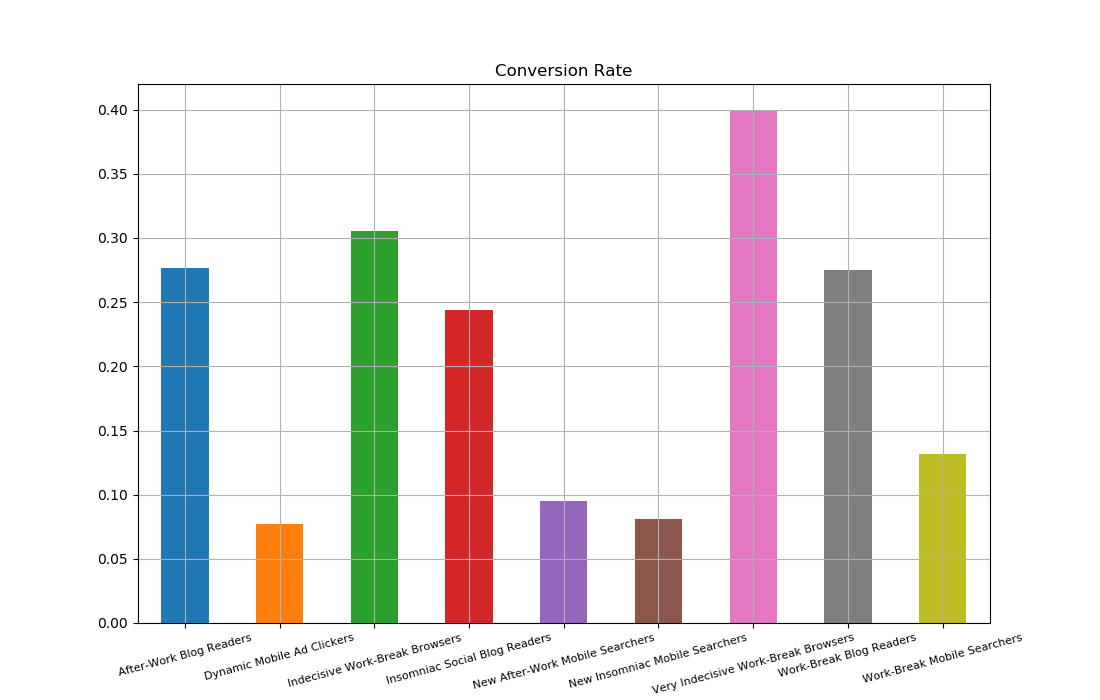
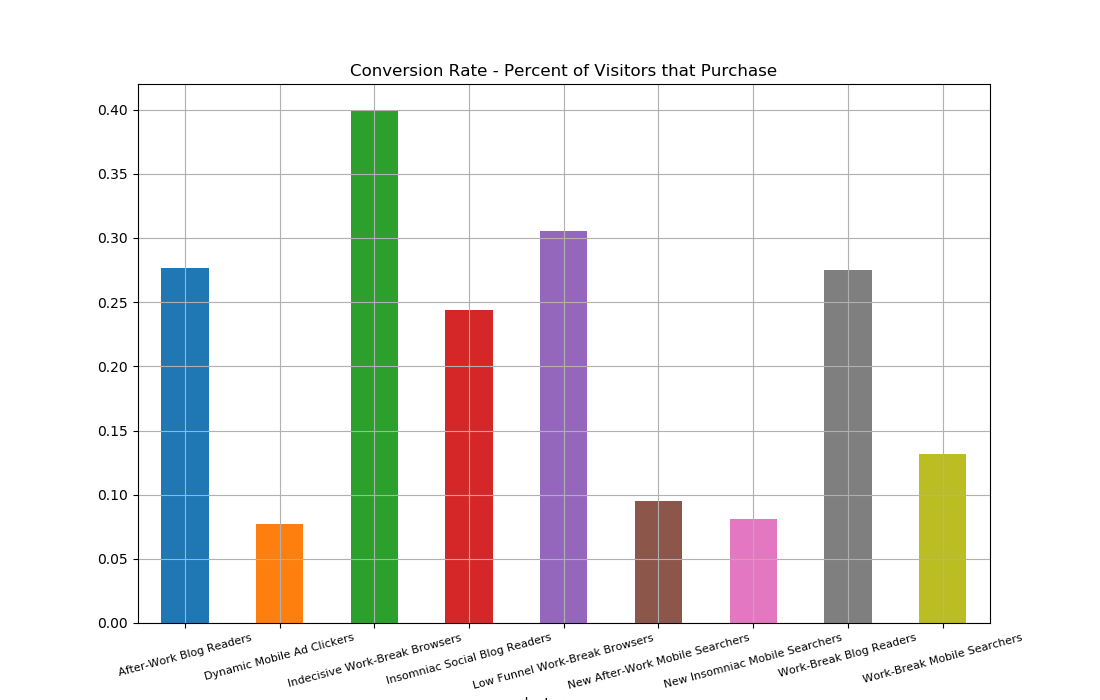
Friday AM

diff --git a/src/customer_segmentation.py b/src/customer_segmentation.py
@@ -143,9 +143,9 @@ def plot_PCA(num_clusters, num_components):
     plt.show()
 
 
-plot_elbow_curve(max_range=5)
-plot_silhouette_score(max_range=5)
-plot_PCA(num_clusters=9,num_components=3)
+# plot_elbow_curve(max_range=5)
+# plot_silhouette_score(max_range=5)
+# plot_PCA(num_clusters=9,num_components=3)
 # conclude that ideal k = 9
 
 # add cluster labels to original feature matrix
@@ -162,50 +162,54 @@ cluster_feature_means = X.groupby(['cluster']).mean()
 # % mobile vs. Desktop
 # % tables print
 
+# device_counts = dfQuery.loc['mean()
+# dfQuery.loc[('referral', 'affiliate')].sum()
 '''EDA by Cluster'''
 # create 'Y' table to see cluster performance on site
 
 # remove from y: num_visits	num_transactions revenue
 # change new columns to grab from other dataframe
 
-# Y = dfQuery[['page_views', 'time_on_site', 'num_visits', 'num_transactions', 'revenue','action_type']]
-# Y['cluster'] = labels
-#
-# # assign cluster names based on interpretations
-# cluster_names = ['Dynamic Mobile Ad Clickers','New Insomniac Mobile Searchers', 'Work-Break Blog Readers', 'New After-Work Mobile Searchers', 'Insomniac Social Blog Readers', 'Very Indecisive Work-Break Browsers', 'Indecisive Work-Break Browsers', 'Work-Break Mobile Searchers', 'After-Work Blog Readers']
-#
-# Y['cluster_name'] = [cluster_names[i] for i in labels]
-#
-# cluster_sizes = Y.cluster_name.value_counts()
-#
-# Y = Y.groupby('cluster_name').agg({'page_views':'mean','time_on_site':'mean', 'num_visits': 'sum', 'num_transactions':'sum','revenue': 'sum', 'action_type': 'mean'})
-#
-# Y['size'] = cluster_sizes.iloc[:]
-#
-# # create new performace metric columns
-# Y['conversion_rate'] = Y['num_transactions'] / Y['size']
-# Y['conversion_value'] = Y['revenue'] / Y['num_transactions']
-#
-#
-# # plot conversion rate by cluster
-# cr = Y.xs('conversion_rate', axis=1)
-# plt.figure(figsize =(11,7))
-# ax1 = cr.plot(kind='bar', title='Conversion Rate')
-# plt.xticks(rotation = 15, fontsize = 8)
-# plt.grid(True)
-# plt.savefig('../images/conversion_rate.png')
-# plt.show()
-#
-#
-# # conversion value by cluster
-# cv = Y.xs('conversion_value', axis=1)
-# plt.figure(figsize =(11,7))
-# cv.plot(kind='bar', title='Conversion Value')
-# plt.xticks(rotation = 15, fontsize = 8)
-# plt.grid(True)
-# plt.savefig('../images/conversion_value.png')
-# plt.show()
+Y = dfQuery[['page_views', 'time_on_site', 'num_visits', 'num_transactions', 'revenue','action_type']]
+Y['cluster'] = labels
 
-# # print dataframe tables
+# assign cluster names based on interpretations
+cluster_names = ['Dynamic Mobile Ad Clickers','New Insomniac Mobile Searchers', 'Work-Break Blog Readers', 'New After-Work Mobile Searchers', 'Insomniac Social Blog Readers', 'Indecisive Work-Break Browsers', 'Low Funnel Work-Break Browsers', 'Work-Break Mobile Searchers', 'After-Work Blog Readers']
+
+Y['cluster_name'] = [cluster_names[i] for i in labels]
+
+cluster_sizes = Y.cluster_name.value_counts()
+
+Y = Y.groupby('cluster_name').agg({'page_views':'mean','time_on_site':'mean', 'num_visits': 'sum', 'num_transactions':'sum','revenue': 'sum', 'action_type': 'mean'})
+
+Y['size'] = cluster_sizes.iloc[:]
+
+# create new performace metric columns
+Y['conversion_rate'] = Y['num_transactions'] / Y['size']
+Y['conversion_value'] = Y['revenue'] / Y['num_transactions']
+
+readmeY = Y[['size','page_views','time_on_site','action_type','revenue', 'conversion_rate', 'conversion_value']].copy()
+
+# plot conversion rate by cluster
+cr = Y.xs('conversion_rate', axis=1)
+plt.figure(figsize =(11,7))
+ax1 = cr.plot(kind='bar', title='Conversion Rate - Percent of Visitors that Purchase')
+plt.xticks(rotation = 15, fontsize = 8)
+plt.grid(True)
+plt.savefig('../images/conversion_rate.png')
+plt.show()
+
+
+# conversion value by cluster
+cv = Y.xs('conversion_value', axis=1)
+plt.figure(figsize =(11,7))
+cv.plot(kind='bar', title='Conversion Value - Average Price of Items Purchased')
+plt.xticks(rotation = 15, fontsize = 8)
+plt.ylabel('Dollars')
+plt.grid(True)
+plt.savefig('../images/conversion_value.png')
+plt.show()
+
+# print dataframe tables
 # print(tabulate(means.round(2), headers='keys', tablefmt='pipe'))
-# print(tabulate(Y.round(2), headers='keys', tablefmt='pipe'))
+print(tabulate(readmeY.round(2), headers='keys', tablefmt='pipe'))

diff --git a/README.md b/README.md
@@ -30,11 +30,11 @@ unique traffic source for referral/affiliate
 Sklearn's Kprototypes is a combination of KMeans and KModes. It's used for clustering a mix of numeric and categorical features. When fitting, KPrototypes takes the categorical indicies as an argument and clusters accordingly.
 
 ```python
-categoricals_indicies = [1,2,3,4,5,6,7,8,9]
+categorical_indicies = [1,2,3,4,5,6,7,8,9]
 
 def get_cluster_labels(k):
   kproto = kprototypes.KPrototypes(n_clusters=k, init='Huang', max_iter=100)
-  labels = kproto.fit_predict(X_scaled, categorical=categoricals_indicies)
+  labels = kproto.fit_predict(X_scaled, categorical=categorical_indicies)
   return labels
 ```
 
@@ -50,10 +50,10 @@ def get_cluster_labels(k):
 <img src= 'images/thurs_silouette_score.png' width="400">
 
 
-### Cluster Features
+### Clusters
 To interpret cluster features, I added a label column to the original features dataframe, grouped by cluster, and aggregated column-wise by the mean.
 
-|   cluster |   num visits |   social referral |   device |   organic |   paid |   referral/affiliate |   night |   morning |   afternoon |   evening |
+|   Cluster|   Number of  Visits |   Social Referral |   Device |   Organic |   Paid |   Referral & Affiliate |   Night |   Morning |   Afternoon |   Evening |
 |----------:|-------------:|------------------:|---------:|----------:|-------:|---------------------:|--------:|----------:|------------:|----------:|
 |         0 |         1.99 |              0.02 |     0.73 |      0.1  |   0.85 |                 0.05 |    0.23 |      0.24 |        0.2  |      0.22 |
 |         1 |         1.48 |              0    |     0.37 |      0.95 |   0.05 |                 0    |    0.98 |      0.01 |        0    |      0    |
@@ -76,8 +76,8 @@ Below is a qualitative interpretation of cluster features based on the mean valu
 |Work-Break Blog Readers | 1268 | Second Visit | No | Desktop | Referral/Affiliate | Afternoon |
 |New After-Work Mobile Searchers | 1461 | New Visitor |  No | Some Mobile | Organic | Evening |
 |Insomniac Social Blog Readers | 780 | 2-3 Visits | Some Social Referral  | Desktop | Referral/Affiliate | Night
-|Very Indecisive Work-Break Browsers| 5 | Very Frequent Visitor | No | Desktop | Organic & Referral/Affiliate | Mostly Afternoon, Not AM |
-|Indecisive Work-Break Browsers| 72 | Frequent Visitor | No | Desktop | Referral/Affiliate | Mostly Afternoon, Not AM |
+|Indecisive Work-Break Browsers| 5 | Very Frequent Visitor | No | Desktop | Organic & Referral/Affiliate | Mostly Afternoon, Not AM |
+|Low Funnel Work-Break Browsers| 72 | Frequent Visitor | No | Desktop | Referral/Affiliate | Mostly Afternoon, Not AM |
 |Work-Break Mobile Searchers| 938 | Second Visit | No  | Some Mobile | Organic | Afternoon |
 |After-Work Blog Readers| 1452 |Second Visit | No  | Desktop | Referral/Affiliate | Evening |
 
@@ -87,24 +87,24 @@ Below is a qualitative interpretation of cluster features based on the mean valu
 * new visitors lean mobile (except for paid traffic), return visitors lean desktop
 
 ### Cluster Performance
-To see how each cluster performed on the site, I created a 'Y' dataframe from the original query and added some columns.
+To see how each cluster performed on the site, I created a 'Y' table from the original query and added some custom metrics.
 
 ```python
-Y['conversion_rate'] = Y['num_transactions'] / Y['num_visits']
+Y['conversion_rate'] = Y['num_transactions'] / Y['cluster_size']
 Y['conversion_value'] = Y['revenue'] / Y['num_transactions']
 ```
 
-|   cluster |   page_views |   time_on_site |   num_visits |   num_transactions |   revenue |   action_type |   conversion_rate |   conversion_value |   size |
-|----------:|-------------:|---------------:|-------------:|-------------------:|----------:|--------------:|------------------:|-------------------:|-------:|
-|         0 |        12.17 |           7.8  |       645.58 |              25    |   1951.52 |          1.82 |              0.04 |              78.06 |    324 |
-|         1 |        12.82 |           7.57 |      1399.11 |              77    |   5056.15 |          1.91 |              0.06 |              65.66 |    948 |
-|         2 |        14.41 |           9.08 |      2662.91 |             348.5  |  51397.1  |          2.87 |              0.13 |             147.48 |   1268 |
-|         3 |        12.6  |           8.34 |      2006.35 |             138.67 |  15215.2  |          1.92 |              0.07 |             109.73 |   1461 |
-|         4 |        14.33 |           8.73 |      2015.97 |             190    |  16243.4  |          2.75 |              0.09 |              85.49 |    780 |
-|         5 |        15.28 |          15.2  |       788.19 |               2    |    114.58 |          3.4  |              0    |              57.29 |      5 |
-|         6 |        16.27 |          12.32 |      1922.67 |              22    |   7813.41 |          3.08 |              0.01 |             355.15 |     72 |
-|         7 |        13    |           9.01 |      1590.4  |             123.33 |  11962    |          2.2  |              0.08 |              96.99 |    938 |
-|         8 |        14.4  |           8.88 |      3326.27 |             401.67 |  53081.4  |          2.91 |              0.12 |             132.15 |   1452 |
+| Cluster Name                        |   Size |   Page Views |   Time on Site |   Action Type |   Revenue |  Conversion Rate |   Conversion Value |
+|:------------------------------------|-------:|-------------:|---------------:|--------------:|----------:|------------------:|-------------------:|
+| After-Work Blog Readers             |   1452 |        14.4  |           8.88 |          2.91 |  53081.4  |              0.28 |             132.15 |
+| Dynamic Mobile Ad Clickers          |    324 |        12.17 |           7.8  |          1.82 |   1951.52 |              0.08 |              78.06 |
+| Low Funnel Work-Break Browsers      |     72 |        16.27 |          12.32 |          3.08 |   7813.41 |              0.31 |             355.15 |
+| Insomniac Social Blog Readers       |    780 |        14.33 |           8.73 |          2.75 |  16243.4  |              0.24 |              85.49 |
+| New After-Work Mobile Searchers     |   1461 |        12.6  |           8.34 |          1.92 |  15215.2  |              0.09 |             109.73 |
+| New Insomniac Mobile Searchers      |    948 |        12.82 |           7.57 |          1.91 |   5056.15 |              0.08 |              65.66 |
+| Indecisive Work-Break Browsers |      5 |        15.28 |          15.2  |          3.4  |    114.58 |              0.4  |              57.29 |
+| Work-Break Blog Readers             |   1268 |        14.41 |           9.08 |          2.87 |  51397.1  |              0.27 |             147.48 |
+| Work-Break Mobile Searchers         |    938 |        13    |           9.01 |          2.2  |  11962    |              0.13 |              96.99 |
 
 #### Insights
 
@@ -113,6 +113,8 @@ Y['conversion_value'] = Y['revenue'] / Y['num_transactions']
 * high frequency visitors are more likely to purchase
 * mobile ads have low conversion Rate, purchase value?, should advertise more expensive things
 * Blog readership has high
+
+
 <img src= 'images/conversion_rate.png' width="700">
 <img src= 'images/conversion_value.png' width="700">
 
